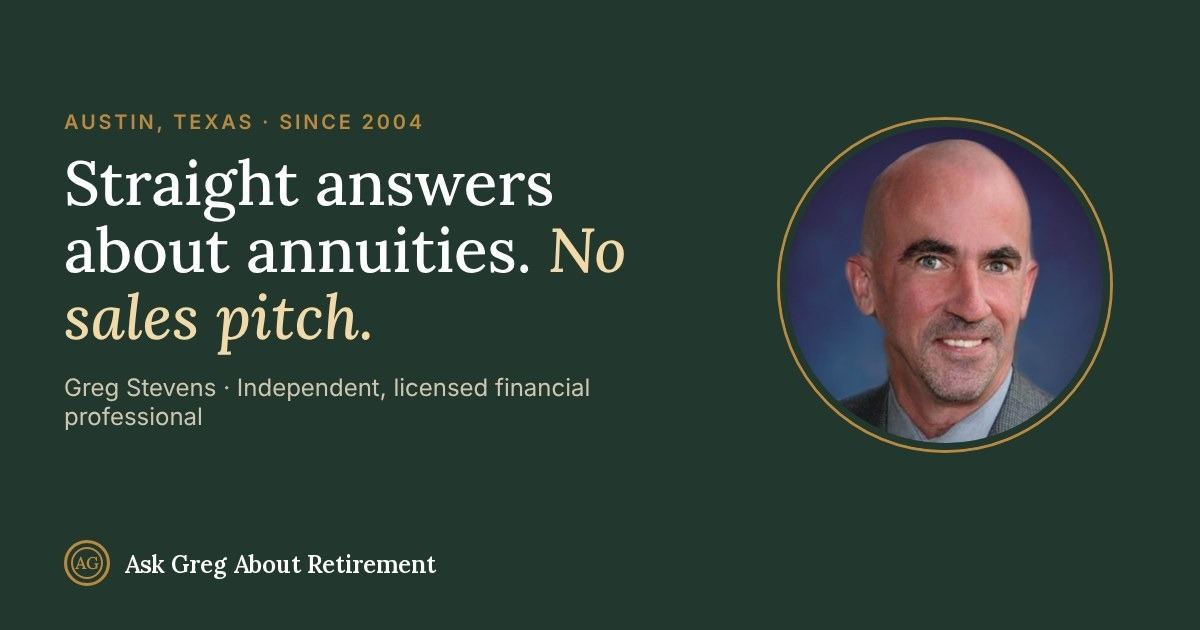
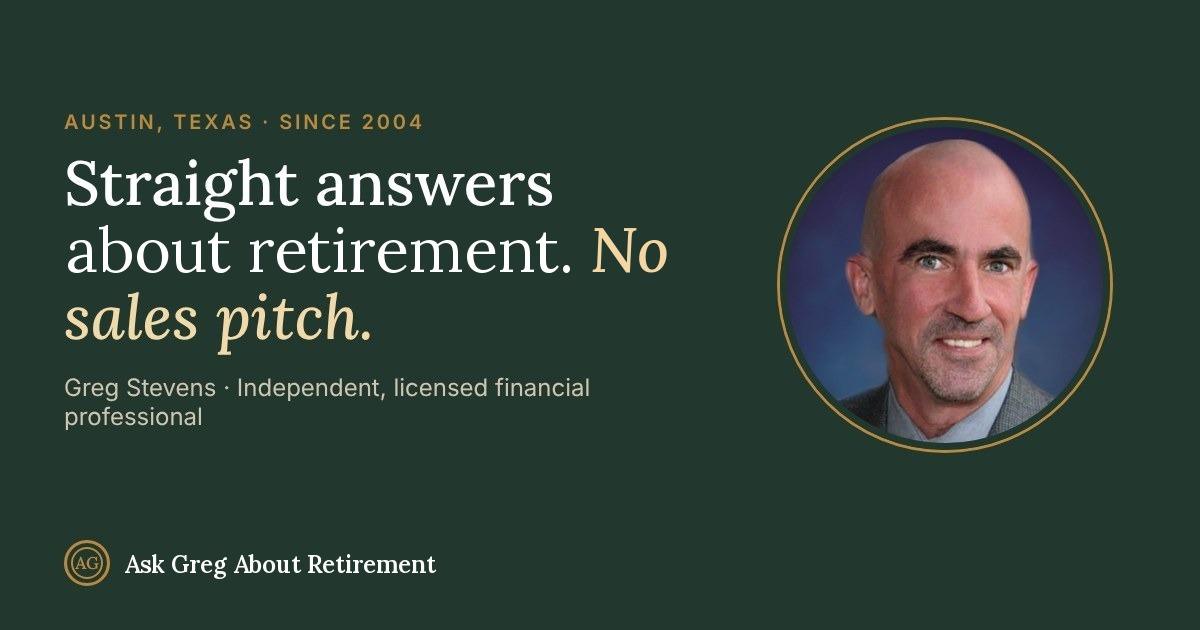
Remove dead YouTube links; preview image says 'about retirement'
Claude-Session: https://claude.ai/code/session_01Ss4Tzofdg6Wy2U3fPLgEUB

Changed region(s): [[0.0617, 0.3619, 0.555, 0.4524]]

diff --git a/index.html b/index.html
@@ -33,7 +33,7 @@ fbq('init','1929619905112145');fbq('track','PageView');
 <link href="https://fonts.googleapis.com/css2?family=Inter:wght@400;500;600&family=Source+Serif+4:opsz,wght@8..60,400;8..60,500;8..60,600&display=swap" rel="stylesheet">
 <link rel="stylesheet" href="/style.css">
 <link rel="icon" href="/favicon.svg" type="image/svg+xml">
-<script type="application/ld+json">{"@context": "https://schema.org", "@type": "FinancialService", "name": "Ask Greg About Retirement", "url": "https://askgregaboutretirement.com/", "telephone": "+1-512-764-0723", "email": "greg@askgregaboutannuities.com", "image": "https://askgregaboutretirement.com/greg-headshot.jpg", "address": {"@type": "PostalAddress", "addressLocality": "Austin", "addressRegion": "TX", "postalCode": "78748", "addressCountry": "US"}, "areaServed": [{"@type": "City", "name": "Austin"}, {"@type": "State", "name": "Texas"}], "founder": {"@type": "Person", "name": "Greg Stevens"}, "sameAs": ["https://www.facebook.com/askgregaboutannuities", "https://www.youtube.com/@askgregaboutannuities"]}</script>
+<script type="application/ld+json">{"@context": "https://schema.org", "@type": "FinancialService", "name": "Ask Greg About Retirement", "url": "https://askgregaboutretirement.com/", "telephone": "+1-512-764-0723", "email": "greg@askgregaboutannuities.com", "image": "https://askgregaboutretirement.com/greg-headshot.jpg", "address": {"@type": "PostalAddress", "addressLocality": "Austin", "addressRegion": "TX", "postalCode": "78748", "addressCountry": "US"}, "areaServed": [{"@type": "City", "name": "Austin"}, {"@type": "State", "name": "Texas"}], "founder": {"@type": "Person", "name": "Greg Stevens"}, "sameAs": ["https://www.facebook.com/askgregaboutannuities"]}</script>
 </head>
 <body>
 <header class="site-header">
@@ -178,7 +178,7 @@ fbq('init','1929619905112145');fbq('track','PageView');
         <p class="small">Formerly Ask Greg About Retirement</p>
         <p>Greg Stevens, independent licensed financial professional.<br>Austin, Texas. Licensed since 2004.<br>TX license #1291485 &middot; NPN 8230713</p>
         <p><a href="tel:+15127640723">512.764.0723</a><br><a href="mailto:greg@askgregaboutannuities.com">greg@askgregaboutannuities.com</a></p>
-        <p class="footer-social"><a href="https://www.facebook.com/askgregaboutannuities" target="_blank" rel="noopener">Facebook</a> &middot; <a href="https://www.youtube.com/@askgregaboutannuities" target="_blank" rel="noopener">YouTube</a></p>
+        <p class="footer-social"><a href="https://www.facebook.com/askgregaboutannuities" target="_blank" rel="noopener">Facebook</a></p>
       </div>
       <div>
         <h4>Start here</h4>

diff --git a/about.html b/about.html
@@ -33,7 +33,7 @@ fbq('init','1929619905112145');fbq('track','PageView');
 <link href="https://fonts.googleapis.com/css2?family=Inter:wght@400;500;600&family=Source+Serif+4:opsz,wght@8..60,400;8..60,500;8..60,600&display=swap" rel="stylesheet">
 <link rel="stylesheet" href="/style.css">
 <link rel="icon" href="/favicon.svg" type="image/svg+xml">
-<script type="application/ld+json">{"@context": "https://schema.org", "@type": "Person", "name": "Greg Stevens", "jobTitle": "Independent licensed financial professional", "url": "https://askgregaboutretirement.com/about", "image": "https://askgregaboutretirement.com/greg-headshot.jpg", "worksFor": {"@type": "FinancialService", "name": "Ask Greg About Retirement"}, "address": {"@type": "PostalAddress", "addressLocality": "Austin", "addressRegion": "TX"}, "alumniOf": "The University of Texas at Austin", "sameAs": ["https://www.facebook.com/askgregaboutannuities", "https://www.youtube.com/@askgregaboutannuities"]}</script>
+<script type="application/ld+json">{"@context": "https://schema.org", "@type": "Person", "name": "Greg Stevens", "jobTitle": "Independent licensed financial professional", "url": "https://askgregaboutretirement.com/about", "image": "https://askgregaboutretirement.com/greg-headshot.jpg", "worksFor": {"@type": "FinancialService", "name": "Ask Greg About Retirement"}, "address": {"@type": "PostalAddress", "addressLocality": "Austin", "addressRegion": "TX"}, "alumniOf": "The University of Texas at Austin", "sameAs": ["https://www.facebook.com/askgregaboutannuities"]}</script>
 </head>
 <body>
 <header class="site-header">
@@ -112,7 +112,7 @@ fbq('init','1929619905112145');fbq('track','PageView');
         <p class="small">Formerly Ask Greg About Retirement</p>
         <p>Greg Stevens, independent licensed financial professional.<br>Austin, Texas. Licensed since 2004.<br>TX license #1291485 &middot; NPN 8230713</p>
         <p><a href="tel:+15127640723">512.764.0723</a><br><a href="mailto:greg@askgregaboutannuities.com">greg@askgregaboutannuities.com</a></p>
-        <p class="footer-social"><a href="https://www.facebook.com/askgregaboutannuities" target="_blank" rel="noopener">Facebook</a> &middot; <a href="https://www.youtube.com/@askgregaboutannuities" target="_blank" rel="noopener">YouTube</a></p>
+        <p class="footer-social"><a href="https://www.facebook.com/askgregaboutannuities" target="_blank" rel="noopener">Facebook</a></p>
       </div>
       <div>
         <h4>Start here</h4>

diff --git a/videos.html b/videos.html
@@ -67,7 +67,6 @@ fbq('init','1929619905112145');fbq('track','PageView');
         <p>Under two minutes on how a free call works, and what you'll walk away with.</p>
       </div>
     </div>
-    <p style="margin-top:32px">Subscribe on <a href="https://www.youtube.com/@askgregaboutannuities" target="_blank" rel="noopener">YouTube</a> to see new videos as they come out.</p>
   </div>
 </section>
 <section class="dark">
@@ -90,7 +89,7 @@ fbq('init','1929619905112145');fbq('track','PageView');
         <p class="small">Formerly Ask Greg About Retirement</p>
         <p>Greg Stevens, independent licensed financial professional.<br>Austin, Texas. Licensed since 2004.<br>TX license #1291485 &middot; NPN 8230713</p>
         <p><a href="tel:+15127640723">512.764.0723</a><br><a href="mailto:greg@askgregaboutannuities.com">greg@askgregaboutannuities.com</a></p>
-        <p class="footer-social"><a href="https://www.facebook.com/askgregaboutannuities" target="_blank" rel="noopener">Facebook</a> &middot; <a href="https://www.youtube.com/@askgregaboutannuities" target="_blank" rel="noopener">YouTube</a></p>
+        <p class="footer-social"><a href="https://www.facebook.com/askgregaboutannuities" target="_blank" rel="noopener">Facebook</a></p>
       </div>
       <div>
         <h4>Start here</h4>

diff --git a/contact.html b/contact.html
@@ -61,7 +61,7 @@ fbq('init','1929619905112145');fbq('track','PageView');
       <p><a class="btn btn-primary" href="/book">Open my calendar</a></p>
       <h3 style="margin-top:34px">Or reach me directly</h3>
       <p>Call or text: <a href="tel:+15127640723">512.764.0723</a><br>Email: <a href="mailto:greg@askgregaboutannuities.com">greg@askgregaboutannuities.com</a></p>
-        <p class="footer-social"><a href="https://www.facebook.com/askgregaboutannuities" target="_blank" rel="noopener">Facebook</a> &middot; <a href="https://www.youtube.com/@askgregaboutannuities" target="_blank" rel="noopener">YouTube</a></p>
+        <p class="footer-social"><a href="https://www.facebook.com/askgregaboutannuities" target="_blank" rel="noopener">Facebook</a></p>
       <p class="small">Please don't send Social Security or account numbers by email, text or this form.</p>
     </div>
     <div class="contact-form">

diff --git a/thank-you.html b/thank-you.html
@@ -63,7 +63,7 @@ fbq('init','1929619905112145');fbq('track','PageView');fbq('track','Lead');
         <p class="small">Formerly Ask Greg About Retirement</p>
         <p>Greg Stevens, independent licensed financial professional.<br>Austin, Texas. Licensed since 2004.<br>TX license #1291485 &middot; NPN 8230713</p>
         <p><a href="tel:+15127640723">512.764.0723</a><br><a href="mailto:greg@askgregaboutannuities.com">greg@askgregaboutannuities.com</a></p>
-        <p class="footer-social"><a href="https://www.facebook.com/askgregaboutannuities" target="_blank" rel="noopener">Facebook</a> &middot; <a href="https://www.youtube.com/@askgregaboutannuities" target="_blank" rel="noopener">YouTube</a></p>
+        <p class="footer-social"><a href="https://www.facebook.com/askgregaboutannuities" target="_blank" rel="noopener">Facebook</a></p>
       </div>
       <div>
         <h4>Start here</h4>

diff --git a/annuities-explained.html b/annuities-explained.html
@@ -107,7 +107,7 @@ fbq('init','1929619905112145');fbq('track','PageView');
         <p class="small">Formerly Ask Greg About Retirement</p>
         <p>Greg Stevens, independent licensed financial professional.<br>Austin, Texas. Licensed since 2004.<br>TX license #1291485 &middot; NPN 8230713</p>
         <p><a href="tel:+15127640723">512.764.0723</a><br><a href="mailto:greg@askgregaboutannuities.com">greg@askgregaboutannuities.com</a></p>
-        <p class="footer-social"><a href="https://www.facebook.com/askgregaboutannuities" target="_blank" rel="noopener">Facebook</a> &middot; <a href="https://www.youtube.com/@askgregaboutannuities" target="_blank" rel="noopener">YouTube</a></p>
+        <p class="footer-social"><a href="https://www.facebook.com/askgregaboutannuities" target="_blank" rel="noopener">Facebook</a></p>
       </div>
       <div>
         <h4>Start here</h4>

diff --git a/blog/annuity-taxes-explained.html b/blog/annuity-taxes-explained.html
@@ -100,7 +100,7 @@ fbq('init','1929619905112145');fbq('track','PageView');
         <p class="small">Formerly Ask Greg About Retirement</p>
         <p>Greg Stevens, independent licensed financial professional.<br>Austin, Texas. Licensed since 2004.<br>TX license #1291485 &middot; NPN 8230713</p>
         <p><a href="tel:+15127640723">512.764.0723</a><br><a href="mailto:greg@askgregaboutannuities.com">greg@askgregaboutannuities.com</a></p>
-        <p class="footer-social"><a href="https://www.facebook.com/askgregaboutannuities" target="_blank" rel="noopener">Facebook</a> &middot; <a href="https://www.youtube.com/@askgregaboutannuities" target="_blank" rel="noopener">YouTube</a></p>
+        <p class="footer-social"><a href="https://www.facebook.com/askgregaboutannuities" target="_blank" rel="noopener">Facebook</a></p>
       </div>
       <div>
         <h4>Start here</h4>

diff --git a/blog/annuity-when-you-die.html b/blog/annuity-when-you-die.html
@@ -100,7 +100,7 @@ fbq('init','1929619905112145');fbq('track','PageView');
         <p class="small">Formerly Ask Greg About Retirement</p>
         <p>Greg Stevens, independent licensed financial professional.<br>Austin, Texas. Licensed since 2004.<br>TX license #1291485 &middot; NPN 8230713</p>
         <p><a href="tel:+15127640723">512.764.0723</a><br><a href="mailto:greg@askgregaboutannuities.com">greg@askgregaboutannuities.com</a></p>
-        <p class="footer-social"><a href="https://www.facebook.com/askgregaboutannuities" target="_blank" rel="noopener">Facebook</a> &middot; <a href="https://www.youtube.com/@askgregaboutannuities" target="_blank" rel="noopener">YouTube</a></p>
+        <p class="footer-social"><a href="https://www.facebook.com/askgregaboutannuities" target="_blank" rel="noopener">Facebook</a></p>
       </div>
       <div>
         <h4>Start here</h4>

diff --git a/blog/fixed-indexed-annuities-explained.html b/blog/fixed-indexed-annuities-explained.html
@@ -106,7 +106,7 @@ fbq('init','1929619905112145');fbq('track','PageView');
         <p class="small">Formerly Ask Greg About Retirement</p>
         <p>Greg Stevens, independent licensed financial professional.<br>Austin, Texas. Licensed since 2004.<br>TX license #1291485 &middot; NPN 8230713</p>
         <p><a href="tel:+15127640723">512.764.0723</a><br><a href="mailto:greg@askgregaboutannuities.com">greg@askgregaboutannuities.com</a></p>
-        <p class="footer-social"><a href="https://www.facebook.com/askgregaboutannuities" target="_blank" rel="noopener">Facebook</a> &middot; <a href="https://www.youtube.com/@askgregaboutannuities" target="_blank" rel="noopener">YouTube</a></p>
+        <p class="footer-social"><a href="https://www.facebook.com/askgregaboutannuities" target="_blank" rel="noopener">Facebook</a></p>
       </div>
       <div>
         <h4>Start here</h4>

diff --git a/blog/income-riders-explained.html b/blog/income-riders-explained.html
@@ -101,7 +101,7 @@ fbq('init','1929619905112145');fbq('track','PageView');
         <p class="small">Formerly Ask Greg About Retirement</p>
         <p>Greg Stevens, independent licensed financial professional.<br>Austin, Texas. Licensed since 2004.<br>TX license #1291485 &middot; NPN 8230713</p>
         <p><a href="tel:+15127640723">512.764.0723</a><br><a href="mailto:greg@askgregaboutannuities.com">greg@askgregaboutannuities.com</a></p>
-        <p class="footer-social"><a href="https://www.facebook.com/askgregaboutannuities" target="_blank" rel="noopener">Facebook</a> &middot; <a href="https://www.youtube.com/@askgregaboutannuities" target="_blank" rel="noopener">YouTube</a></p>
+        <p class="footer-social"><a href="https://www.facebook.com/askgregaboutannuities" target="_blank" rel="noopener">Facebook</a></p>
       </div>
       <div>
         <h4>Start here</h4>

diff --git a/blog/index.html b/blog/index.html
@@ -144,7 +144,7 @@ fbq('init','1929619905112145');fbq('track','PageView');
         <p class="small">Formerly Ask Greg About Retirement</p>
         <p>Greg Stevens, independent licensed financial professional.<br>Austin, Texas. Licensed since 2004.<br>TX license #1291485 &middot; NPN 8230713</p>
         <p><a href="tel:+15127640723">512.764.0723</a><br><a href="mailto:greg@askgregaboutannuities.com">greg@askgregaboutannuities.com</a></p>
-        <p class="footer-social"><a href="https://www.facebook.com/askgregaboutannuities" target="_blank" rel="noopener">Facebook</a> &middot; <a href="https://www.youtube.com/@askgregaboutannuities" target="_blank" rel="noopener">YouTube</a></p>
+        <p class="footer-social"><a href="https://www.facebook.com/askgregaboutannuities" target="_blank" rel="noopener">Facebook</a></p>
       </div>
       <div>
         <h4>Start here</h4>

diff --git a/blog/review-your-old-annuity.html b/blog/review-your-old-annuity.html
@@ -103,7 +103,7 @@ fbq('init','1929619905112145');fbq('track','PageView');
         <p class="small">Formerly Ask Greg About Retirement</p>
         <p>Greg Stevens, independent licensed financial professional.<br>Austin, Texas. Licensed since 2004.<br>TX license #1291485 &middot; NPN 8230713</p>
         <p><a href="tel:+15127640723">512.764.0723</a><br><a href="mailto:greg@askgregaboutannuities.com">greg@askgregaboutannuities.com</a></p>
-        <p class="footer-social"><a href="https://www.facebook.com/askgregaboutannuities" target="_blank" rel="noopener">Facebook</a> &middot; <a href="https://www.youtube.com/@askgregaboutannuities" target="_blank" rel="noopener">YouTube</a></p>
+        <p class="footer-social"><a href="https://www.facebook.com/askgregaboutannuities" target="_blank" rel="noopener">Facebook</a></p>
       </div>
       <div>
         <h4>Start here</h4>
